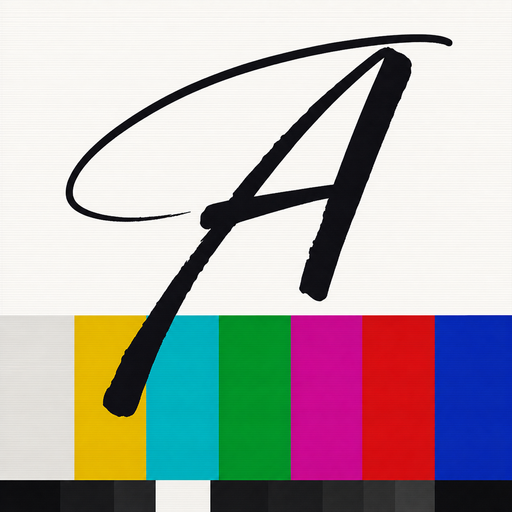
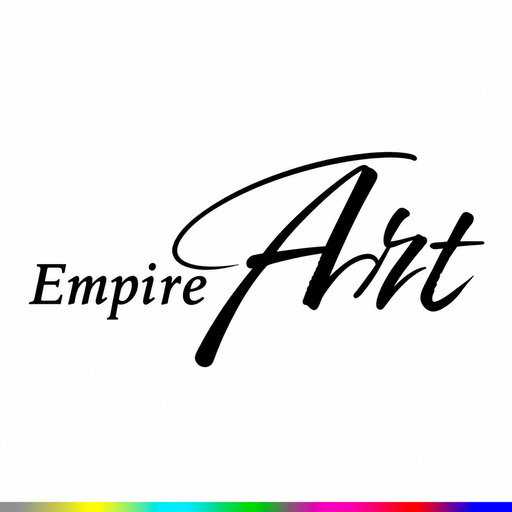
ファビコンをEmpire Artロゴと極細グラデーションに更新

diff --git a/crm-training.html b/crm-training.html
@@ -17,9 +17,9 @@
   <meta name="twitter:card" content="summary_large_image">
   <meta name="google-site-verification" content="DiJruQ56RrKV0pojmZcEBf4RLF2raJs7DiAOiIQ7bW0" />
   <link rel="canonical" href="https://empire-art.jp/crm-training">
-  <link rel="icon" href="favicon.ico">
-  <link rel="icon" type="image/png" sizes="192x192" href="assets/img/common/icon-192.png">
-  <link rel="apple-touch-icon" href="assets/img/common/apple-touch-icon.png">
+  <link rel="icon" href="/favicon.ico?v=20261118-empire-art">
+  <link rel="icon" type="image/png" sizes="192x192" href="/assets/img/common/icon-192.png?v=20261118-empire-art">
+  <link rel="apple-touch-icon" href="/assets/img/common/apple-touch-icon.png?v=20261118-empire-art">
   <link rel="preconnect" href="https://fonts.googleapis.com">
   <link rel="preconnect" href="https://fonts.gstatic.com" crossorigin>
   <link href="https://fonts.googleapis.com/css2?family=Cormorant+Garamond:ital,wght@0,400;1,400&family=IBM+Plex+Mono:wght@400;500;600&family=Noto+Sans+JP:wght@400;500;700&family=Zen+Kaku+Gothic+New:wght@500;700;900&family=Zen+Old+Mincho:wght@400;700;900&display=swap" rel="stylesheet">

diff --git a/business.html b/business.html
@@ -17,9 +17,9 @@
   <meta name="twitter:card" content="summary_large_image">
   <meta name="google-site-verification" content="DiJruQ56RrKV0pojmZcEBf4RLF2raJs7DiAOiIQ7bW0" />
   <link rel="canonical" href="https://empire-art.jp/business">
-  <link rel="icon" href="favicon.ico">
-  <link rel="icon" type="image/png" sizes="192x192" href="assets/img/common/icon-192.png">
-  <link rel="apple-touch-icon" href="assets/img/common/apple-touch-icon.png">
+  <link rel="icon" href="/favicon.ico?v=20261118-empire-art">
+  <link rel="icon" type="image/png" sizes="192x192" href="/assets/img/common/icon-192.png?v=20261118-empire-art">
+  <link rel="apple-touch-icon" href="/assets/img/common/apple-touch-icon.png?v=20261118-empire-art">
   <link rel="preconnect" href="https://fonts.googleapis.com">
   <link rel="preconnect" href="https://fonts.gstatic.com" crossorigin>
   <link href="https://fonts.googleapis.com/css2?family=Cormorant+Garamond:ital,wght@0,400;1,400&family=IBM+Plex+Mono:wght@400;500;600&family=Noto+Sans+JP:wght@400;500;700&family=Zen+Kaku+Gothic+New:wght@500;700;900&family=Zen+Old+Mincho:wght@400;700;900&display=swap" rel="stylesheet">

diff --git a/company.html b/company.html
@@ -17,9 +17,9 @@
   <meta name="twitter:card" content="summary_large_image">
   <meta name="google-site-verification" content="DiJruQ56RrKV0pojmZcEBf4RLF2raJs7DiAOiIQ7bW0" />
   <link rel="canonical" href="https://empire-art.jp/company">
-  <link rel="icon" href="favicon.ico">
-  <link rel="icon" type="image/png" sizes="192x192" href="assets/img/common/icon-192.png">
-  <link rel="apple-touch-icon" href="assets/img/common/apple-touch-icon.png">
+  <link rel="icon" href="/favicon.ico?v=20261118-empire-art">
+  <link rel="icon" type="image/png" sizes="192x192" href="/assets/img/common/icon-192.png?v=20261118-empire-art">
+  <link rel="apple-touch-icon" href="/assets/img/common/apple-touch-icon.png?v=20261118-empire-art">
   <link rel="preconnect" href="https://fonts.googleapis.com">
   <link rel="preconnect" href="https://fonts.gstatic.com" crossorigin>
   <link href="https://fonts.googleapis.com/css2?family=Cormorant+Garamond:ital,wght@0,400;1,400&family=IBM+Plex+Mono:wght@400;500;600&family=Noto+Sans+JP:wght@400;500;700&family=Zen+Kaku+Gothic+New:wght@500;700;900&family=Zen+Old+Mincho:wght@400;700;900&display=swap" rel="stylesheet">

diff --git a/members.html b/members.html
@@ -17,9 +17,9 @@
   <meta name="twitter:card" content="summary_large_image">
   <meta name="google-site-verification" content="DiJruQ56RrKV0pojmZcEBf4RLF2raJs7DiAOiIQ7bW0" />
   <link rel="canonical" href="https://empire-art.jp/members">
-  <link rel="icon" href="favicon.ico">
-  <link rel="icon" type="image/png" sizes="192x192" href="assets/img/common/icon-192.png">
-  <link rel="apple-touch-icon" href="assets/img/common/apple-touch-icon.png">
+  <link rel="icon" href="/favicon.ico?v=20261118-empire-art">
+  <link rel="icon" type="image/png" sizes="192x192" href="/assets/img/common/icon-192.png?v=20261118-empire-art">
+  <link rel="apple-touch-icon" href="/assets/img/common/apple-touch-icon.png?v=20261118-empire-art">
   <link rel="preconnect" href="https://fonts.googleapis.com">
   <link rel="preconnect" href="https://fonts.gstatic.com" crossorigin>
   <link href="https://fonts.googleapis.com/css2?family=Cormorant+Garamond:ital,wght@0,400;1,400&family=IBM+Plex+Mono:wght@400;500;600&family=Noto+Sans+JP:wght@400;500;700&family=Zen+Kaku+Gothic+New:wght@500;700;900&family=Zen+Old+Mincho:wght@400;700;900&display=swap" rel="stylesheet">

diff --git a/index.html b/index.html
@@ -17,9 +17,9 @@
   <meta name="twitter:card" content="summary_large_image">
   <meta name="google-site-verification" content="DiJruQ56RrKV0pojmZcEBf4RLF2raJs7DiAOiIQ7bW0" />
   <link rel="canonical" href="https://empire-art.jp/">
-  <link rel="icon" href="favicon.ico">
-  <link rel="icon" type="image/png" sizes="192x192" href="assets/img/common/icon-192.png">
-  <link rel="apple-touch-icon" href="assets/img/common/apple-touch-icon.png">
+  <link rel="icon" href="/favicon.ico?v=20261118-empire-art">
+  <link rel="icon" type="image/png" sizes="192x192" href="/assets/img/common/icon-192.png?v=20261118-empire-art">
+  <link rel="apple-touch-icon" href="/assets/img/common/apple-touch-icon.png?v=20261118-empire-art">
   <link rel="preconnect" href="https://fonts.googleapis.com">
   <link rel="preconnect" href="https://fonts.gstatic.com" crossorigin>
   <link href="https://fonts.googleapis.com/css2?family=Cormorant+Garamond:ital,wght@0,400;1,400&family=IBM+Plex+Mono:wght@400;500;600&family=Noto+Sans+JP:wght@400;500;700&family=Zen+Kaku+Gothic+New:wght@500;700;900&family=Zen+Old+Mincho:wght@400;700;900&display=swap" rel="stylesheet">

diff --git a/404.html b/404.html
@@ -6,7 +6,7 @@
   <title>404 Not Found | Empire Art 株式会社</title>
   <meta name="description" content="お探しのページが見つかりませんでした。">
   <meta name="robots" content="noindex">
-  <link rel="icon" href="favicon.ico">
+  <link rel="icon" href="/favicon.ico?v=20261118-empire-art">
   <link rel="preconnect" href="https://fonts.googleapis.com">
   <link rel="preconnect" href="https://fonts.gstatic.com" crossorigin>
   <link href="https://fonts.googleapis.com/css2?family=IBM+Plex+Mono:wght@400;500;600&family=Noto+Sans+JP:wght@400;500;700&family=Zen+Kaku+Gothic+New:wght@500;700;900&display=swap" rel="stylesheet">

diff --git a/feedback-log.md b/feedback-log.md
@@ -2,6 +2,7 @@
 
 | 日付 | 依頼 | 対応 | バージョン |
 |---|---|---|---|
+| 2026-11-18 | ファビコンをEmpire Artロゴ＋最下部の極細グラデーションバーの採用画像に変更し、本番反映 | 承認画像からICO(16/32/48/64/128/256px)、192/512px PNG、Apple Touch Icon(180px)を書き出し。全ページのアイコン参照をルート絶対パス＋更新番号付きに統一 | v18 |
 | 2026-10-03 | CH.05の下に研修概要がそのまま続くと他の事業と形が揃わないので、詳細ページに分ける | 研修詳細ページ crm-training.html(/crm-training)を新設し、研修について・研修概要・研修内容・資料請求CTAを移設(パンくず: ホーム/事業紹介/CRM実践研修、sitemapに追加)。事業紹介のCH.05は他の事業と同じ「モニター+説明」に戻し、「研修の詳細を見る →」リンク(.program__link)を追加 | v17 |
 | 2026-10-03 | CRM研修を実施していることをHPに追加(人材開発支援助成金の事業外訓練として、研修内容を公開しておくため)。CH.04-1ではなくCH.05として独立させる | 事業紹介にCH.05「CRM実践研修」を新設(研修概要: 研修名・目的・対象・期間・研修時間・実施形式・受講料・資料請求、研修内容6項目)。受講料は金額を載せず、受講案内(料金表)を資料請求で送る形。写真がないためモニターはカラーバーのタイトルカード(.title-card)。トップのザッピングにもCH.05を追加、企業情報の事業内容に「研修・人材育成業務」を追記。CH.04コーチング事業は変更なし | v16 |
 | 2026-08-31 | 武藤絢人のプロフィール写真を追加 | 支給PNGを1254×1254px・quality 85のWebPへ書き出し、partner03.webpに差し替え。プレースホルダ表示を解消 | v15 |
